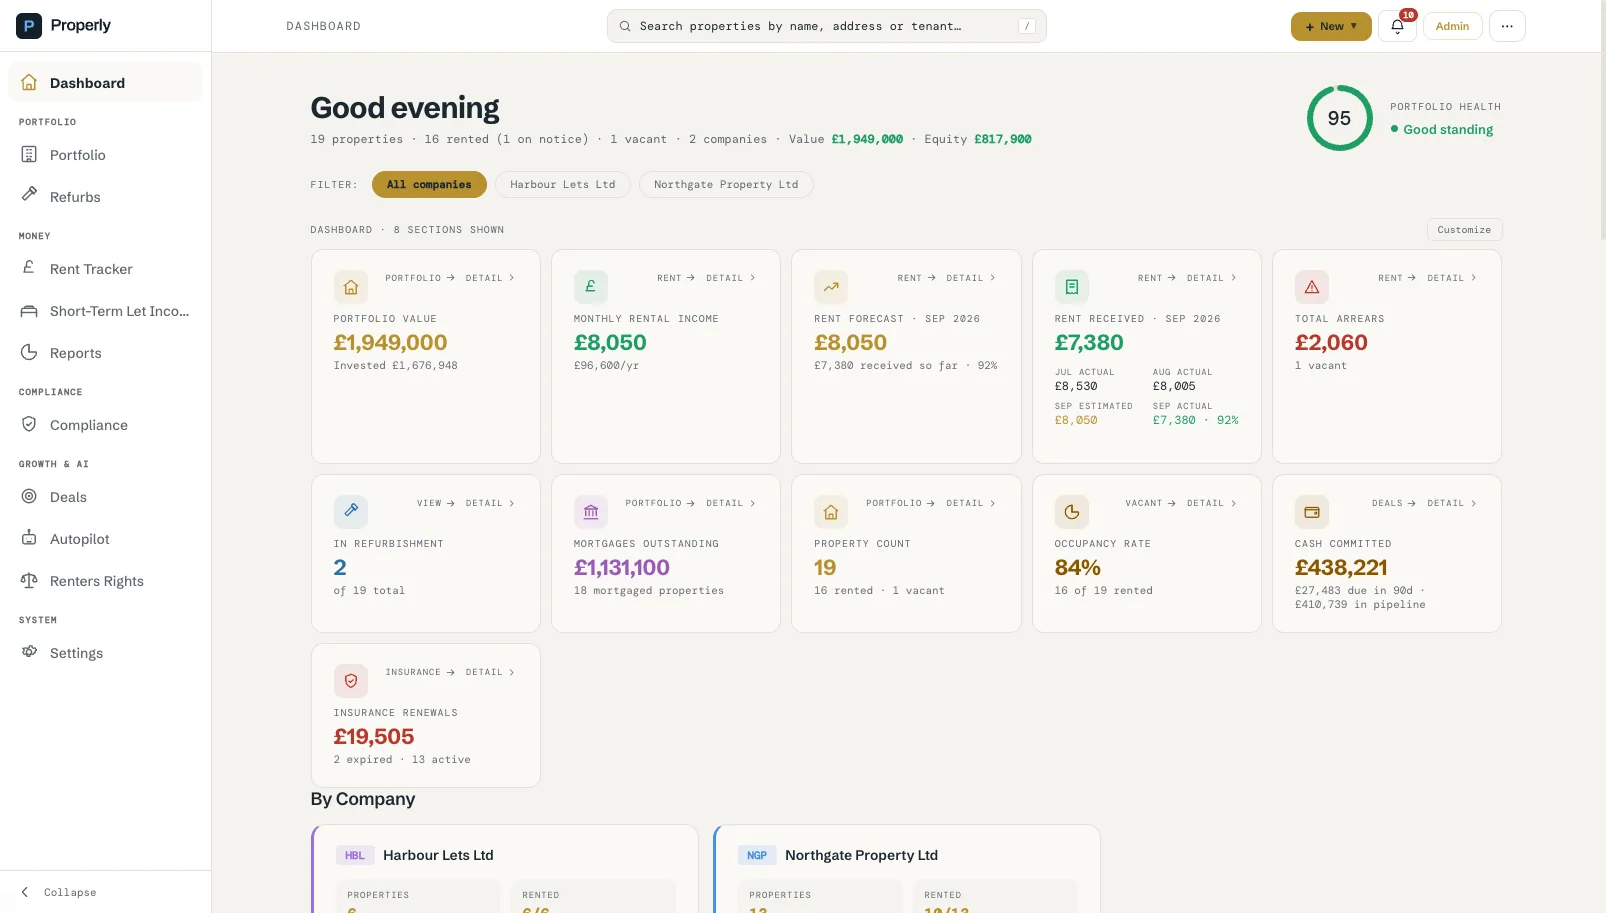
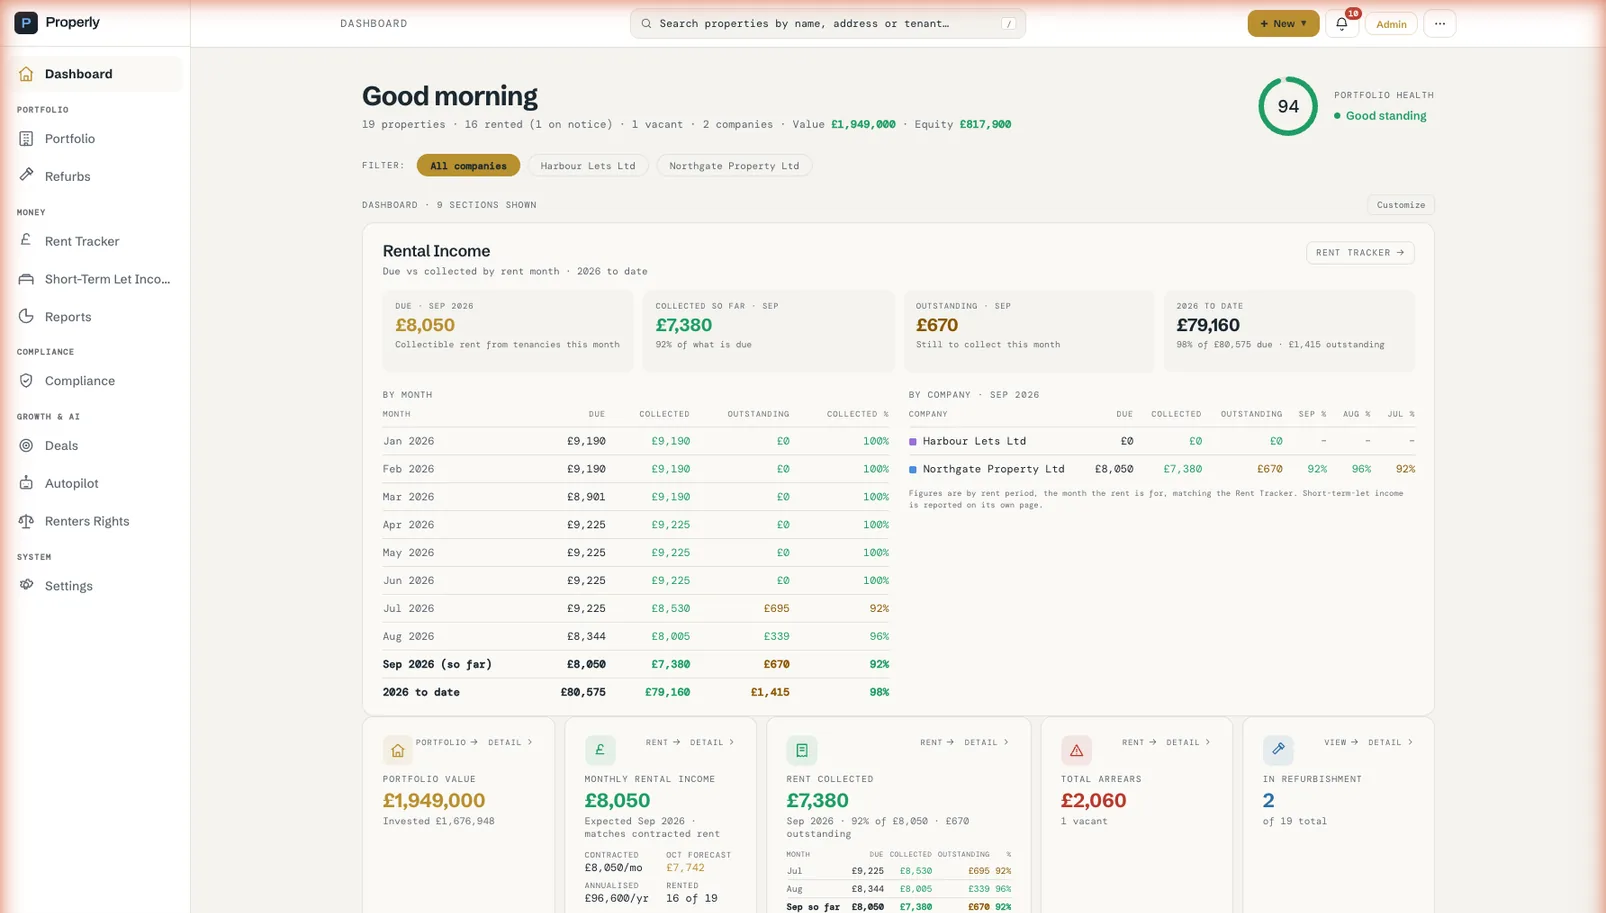
Marketing: re-capture the demo dashboard now that Rental Income leads the page
The dashboard changed after the first capture (Rental Income section with
due vs collected by month and by company now leads it), so the Inside
Properly dashboard tab showed the old layout. Re-captured from the demo
account and the caption updated to describe the new page.

diff --git a/src/components/MarketingSite.jsx b/src/components/MarketingSite.jsx
@@ -158,7 +158,7 @@ const steps = [
 const SCREENS = [
   { id: 'dashboard',  label: 'Dashboard',        img: '/screens/dashboard.webp', url: 'dashboard',
     title: 'The whole portfolio on one page',
-    desc: 'Value, equity, rent received against forecast, arrears, occupancy and a health score across every company, with the items that need attention today, a portfolio map, Autopilot suggestions and AI insights underneath.' },
+    desc: 'Rental Income leads the page: rent due against collected for every month of the year and for every company, then value, equity, arrears, occupancy and a health score, with the items that need attention today, a portfolio map, Autopilot suggestions and AI insights underneath.' },
   { id: 'portfolio',  label: 'Portfolio',        img: '/screens/portfolio.webp', url: 'properties',
     title: 'Every unit, grouped by company and building',
     desc: 'Houses, flats in a block, HMO rooms and serviced apartments in one list or grid, with status, yield and rent on every row, filters by company and status, a map view and a one-step block-of-flats add.' },
